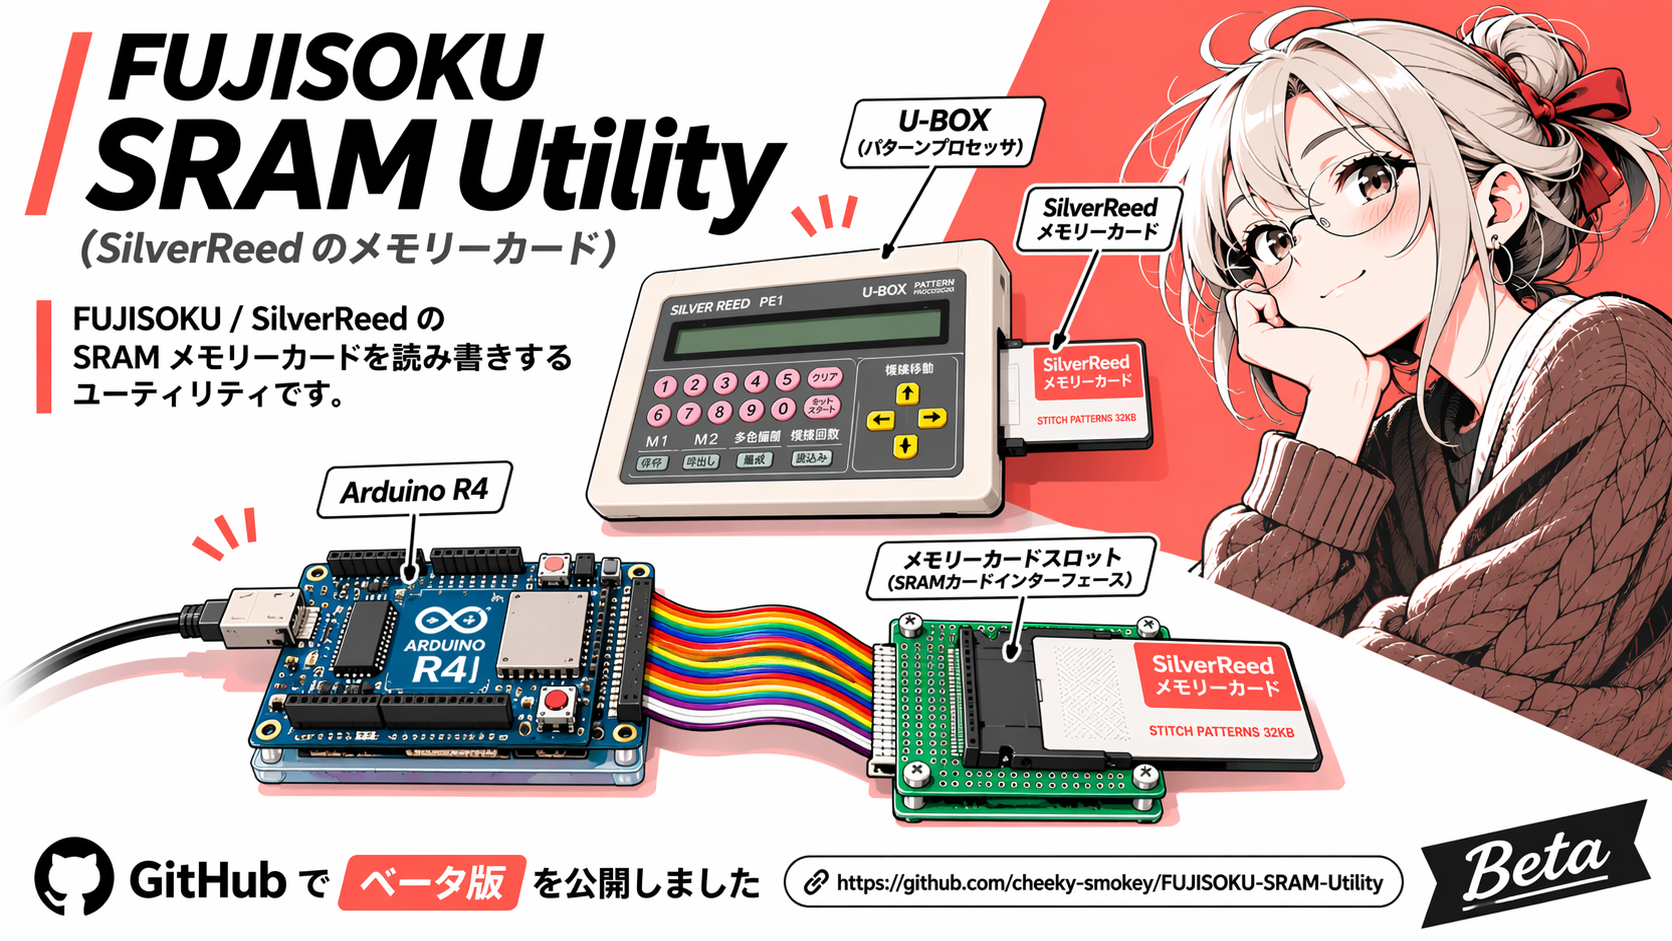
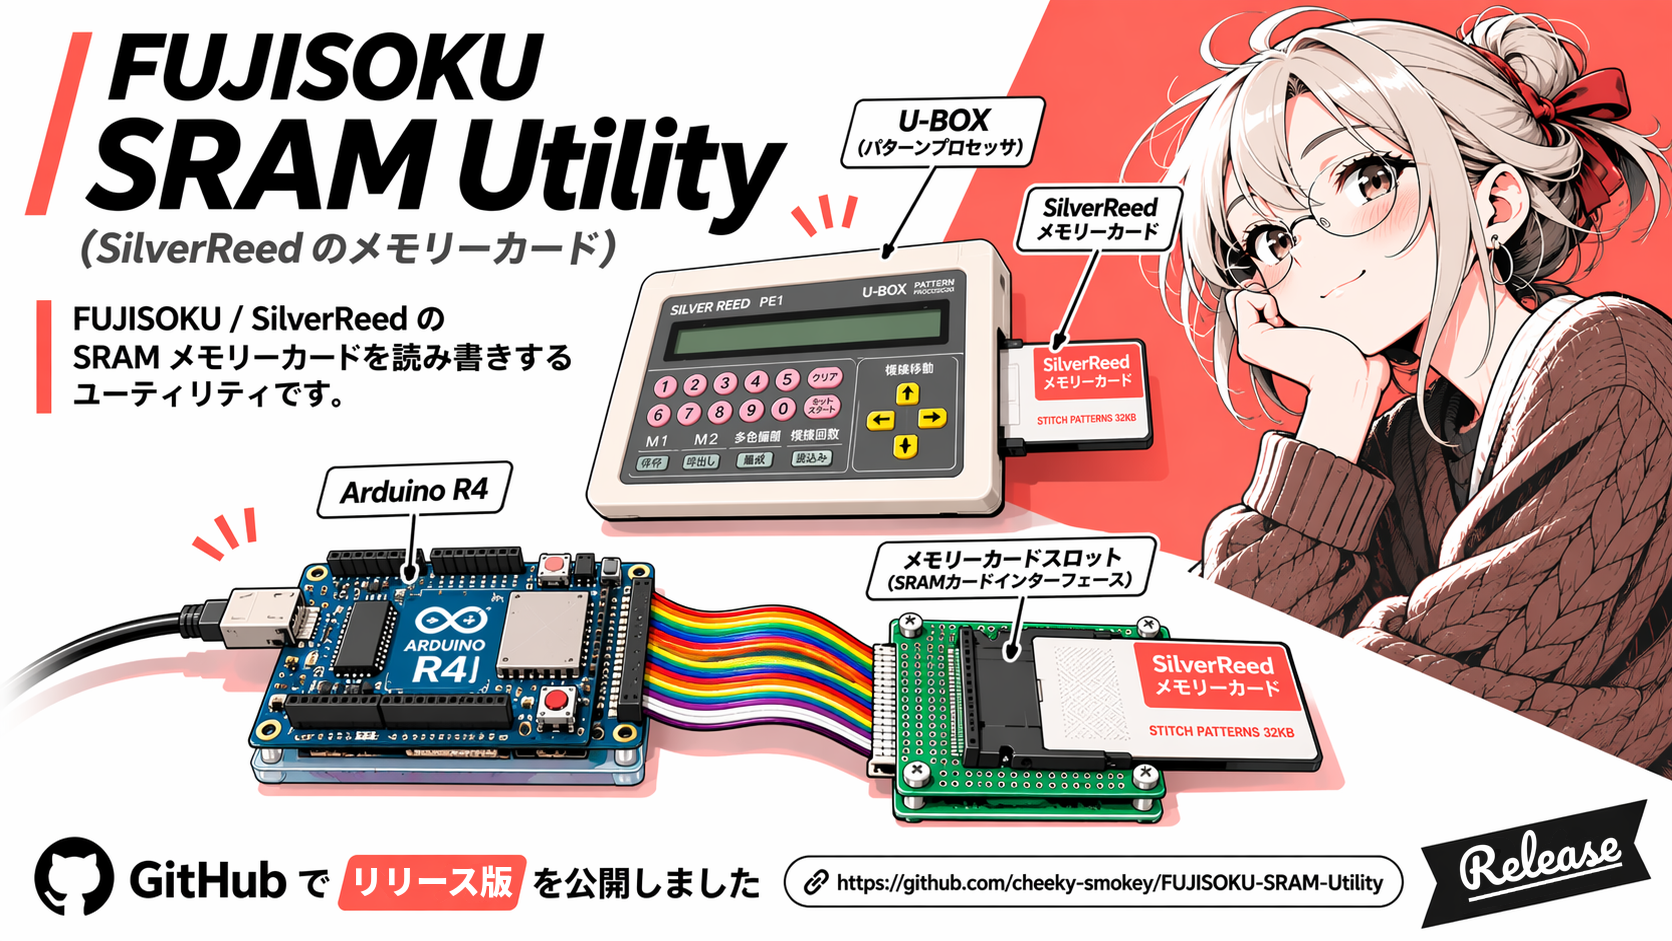
Release v2.5 (beta -> release)
- Banner: "ベータ版" -> "リリース版" and the "Beta" ribbon -> "Release".
- README states release v2.5 and links to Releases.
- specification.md: v2.5 marked as the release; the SPI SRAM option
  change is now confirmed on the real board.

Claude-Session: https://claude.ai/code/session_01UJuSgzhm1N2XSN85DYFj5Y

Changed region(s): [[0.8708, 0.8629, 0.9952, 0.9862], [0.2177, 0.9245, 0.311, 0.9554]]

diff --git a/docs/specification.md b/docs/specification.md
@@ -232,7 +232,7 @@ v1 との違い:
 
 ## 12. 変更履歴
 
-### 12.1 v2.5（SPI SRAM をオプションに）
+### 12.1 v2.5（SPI SRAM をオプションに。リリース版）
 
 | 区分 | 内容 |
 |---|---|
@@ -241,7 +241,8 @@ v1 との違い:
 | 通信 | `hello` に `spisram=ok|none|off`、起動メッセージに `SPI SRAM ok|none|off`。`status` の `spi=` は使わない設定で `-` |
 | エラー | `ERR NOSPI` を追加。使わない設定の 62256（`p`）も `ERR ARG` から `ERR DISABLED` に変えた |
 | Web アプリ | 本体の欄に SPI SRAM の状態を表示。使わない設定なら SPI SRAM の操作を隠し、見つからなければ自己診断だけ出す。カードの消去はいつでも使える |
-| 実機 | Arduino UNO R4 と作者の基板で動作を確認済み。v2.5 の変更（SPI SRAM のオプション化）は、まだ実機では確かめていない |
+| 実機 | Arduino UNO R4 と作者の基板で動作を確認済み（SPI SRAM のオプション化を含む） |
+| 公開 | v2.5 をベータ版からリリース版にした（2026-11-07） |
 
 ### 12.2 v2.4（32KB より大きいカード）
 

diff --git a/README.md b/README.md
@@ -2,6 +2,8 @@
 
 # FUJISOKU SRAM Utility
 
+**リリース版 v2.5**（Arduino UNO R4 と作者の基板で動作確認済み）。ダウンロードは [Releases](https://github.com/cheeky-smokey/FUJISOKU-SRAM-Utility/releases) から。
+
 Silver Reed 編み機のメモリカード（FUJISOKU SRAM、基本は 32KB。PC からは 256KB まで）を、Arduino UNO R4 で読み書きするツールです。MCP23S17 を 2 個使った GPIO エキスパンダでカードのアドレス・データ・制御線を直接動かし、PC・SD カード・SPI SRAM との間でコピーと照合をします。
 
 - **PC から操作**: ブラウザの Web アプリで、カードを PC に保存・PC のファイルをカードに書き込み・比較。
